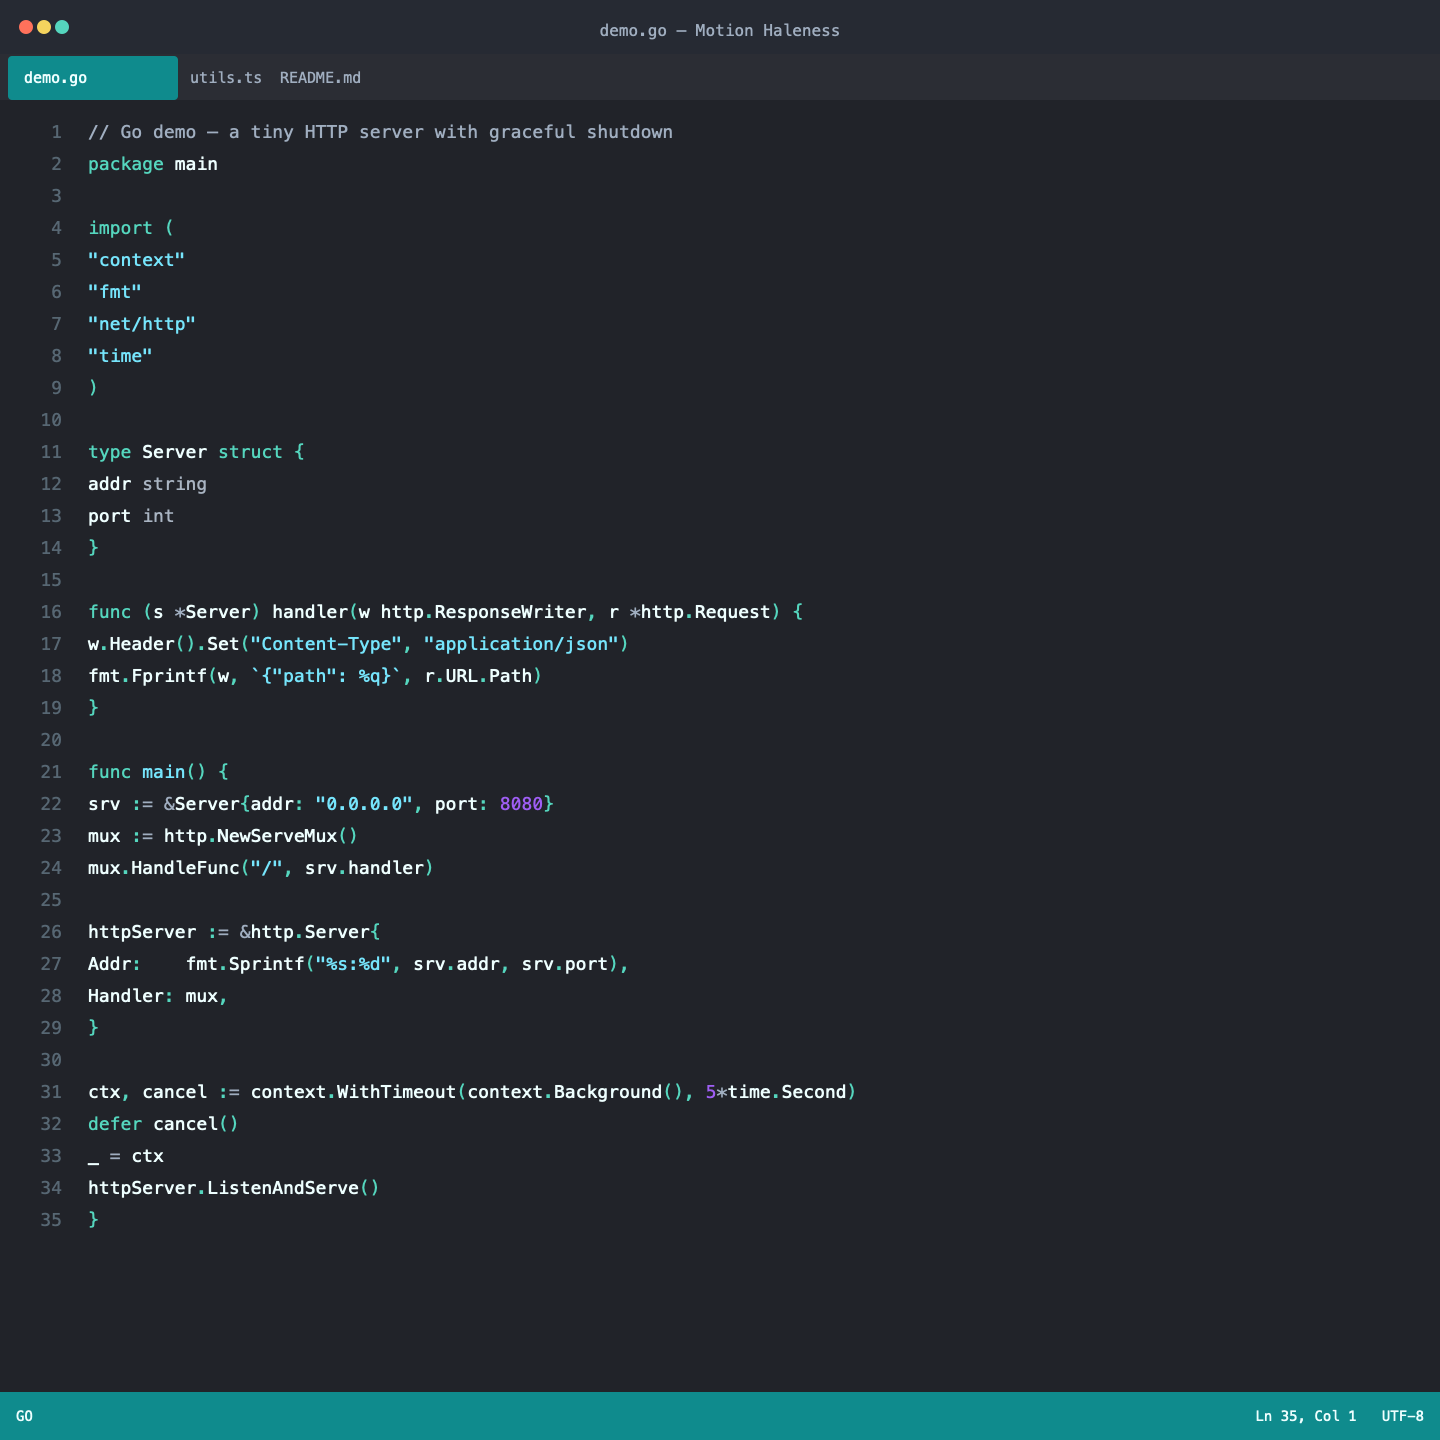
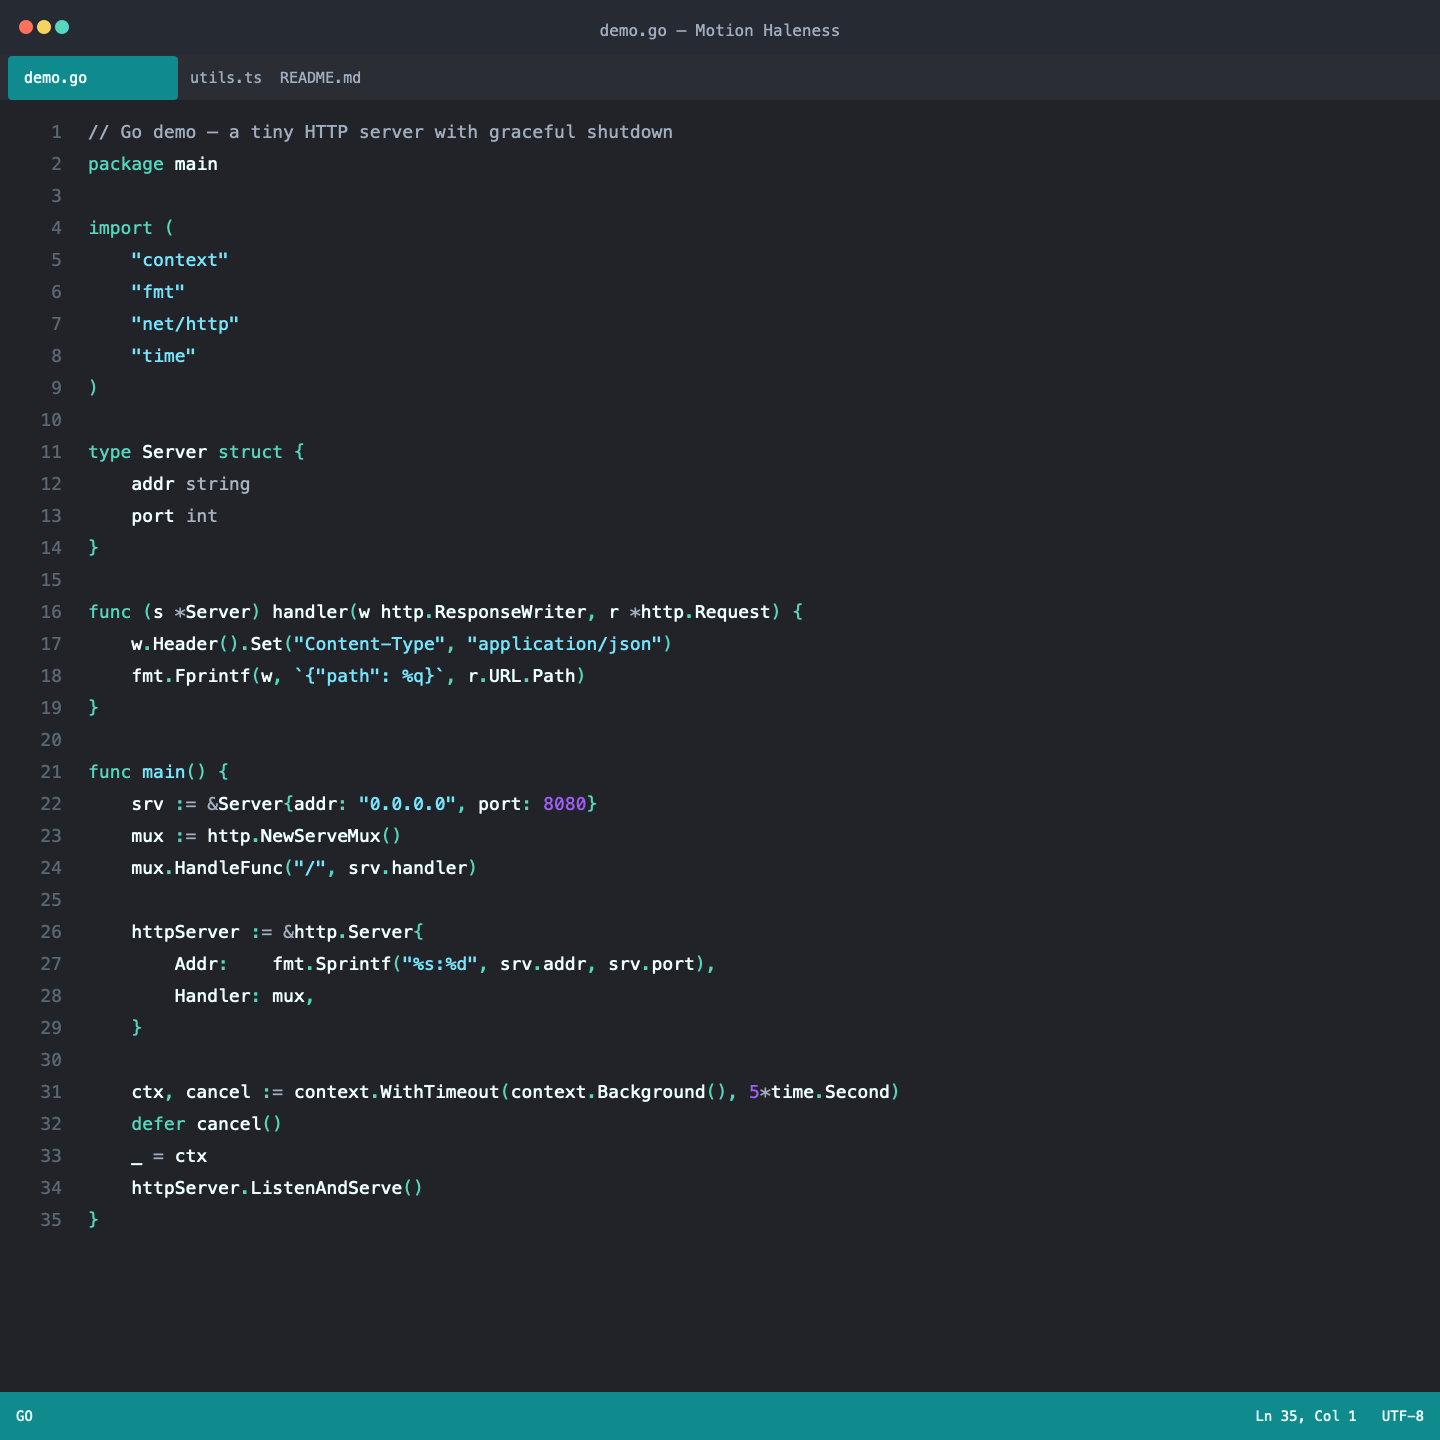
preserve tab indentation in screenshots

diff --git a/scripts/generate-screenshots.js b/scripts/generate-screenshots.js
@@ -207,7 +207,10 @@ function buildSvg(langLabel, fileName, code) {
     const tspans = [];
     for (const r of runs) {
       for (const seg of splitByChar(r.text, colorFor(r.classes))) {
-        tspans.push(`<tspan fill="${seg.color}">${escapeXml(seg.text).replace(/ /g, "&#160;")}</tspan>`);
+        const escaped = escapeXml(seg.text)
+          .replace(/ /g, "&#160;")
+          .replace(/\t/g, "&#160;&#160;&#160;&#160;");
+        tspans.push(`<tspan fill="${seg.color}">${escaped}</tspan>`);
       }
     }
     parts.push(`<text x="${codeX}" y="${y}" fill="#EEFFFF" font-family="${FONT}" font-size="${fontSize}">${tspans.join("")}</text>`);
